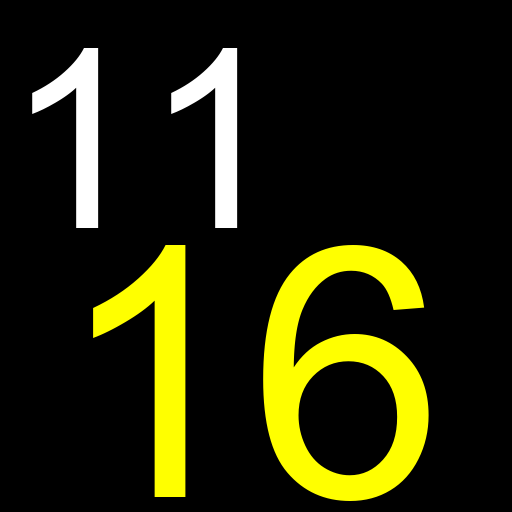
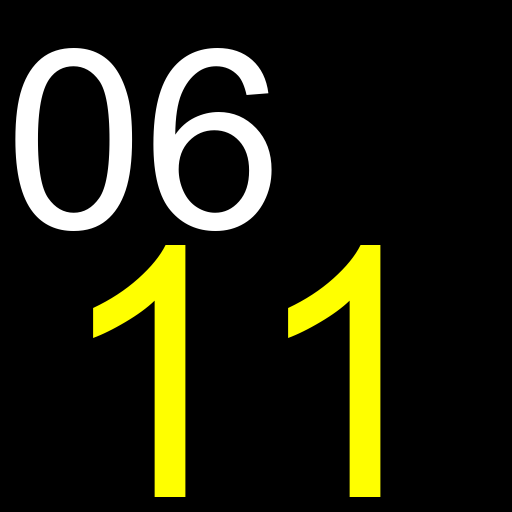
version: 0.14 ~ 2024-06-11 12:33:53:244280

Changed region(s): [[0.0312, 0.0938, 0.5312, 0.4688], [0.5, 0.4688, 0.8438, 1.0]]

diff --git a/datetray.py b/datetray.py
@@ -13,103 +13,102 @@ PID = os.getpid()
 print("PID:", PID)
 
 class Datetray(QApplication):
-	def __init__(self, *args, **kwargs):
-		super(Datetray, self).__init__([])
-		
-		self.setQuitOnLastWindowClosed(False)
-		self.now = datetime.now()
-		self.next_time = datetime(self.now.year, self.now.month, self.now.day + 1, 23, 59, 59, 0)
-		# self.next_time = datetime(self.now.year, self.now.month, self.now.day, 14, 7, 0, 0)
+    def __init__(self, *args, **kwargs):
+        super(Datetray, self).__init__([])
 
-		self.sleep = self.next_time - self.now
-		self.sleep = self.sleep.seconds
-		self.name = os.path.join(os.path.dirname(__file__), 'date.png')
-		self.draw_date()
-		self.icon = QIcon(self.name)
+        self.setQuitOnLastWindowClosed(False)
+        self.now = datetime.now()
+        self.next_time = datetime(self.now.year, self.now.month, self.now.day + 1, 23, 59, 59, 0)
+        # self.next_time = datetime(self.now.year, self.now.month, self.now.day, 14, 7, 0, 0)
 
-		self.tray = QSystemTrayIcon()
-		self.tray.setIcon(self.icon)
-		self.tray.setVisible(True) 
+        self.sleep = self.next_time - self.now
+        self.sleep = self.sleep.seconds
+        self.name = os.path.join(os.path.dirname(__file__), 'date.png')
+        self.draw_date()
+        self.icon = QIcon(self.name)
 
-		# Creating the options 
-		self.menu = QMenu() 
-		self.option1 = QAction("Update") 
-		self.option1.triggered.connect(self.updateIcon)
-		#option2 = QAction("GFG") 
-		self.menu.addAction(self.option1) 
-		#menu.addAction(option2) 
+        self.tray = QSystemTrayIcon()
+        self.tray.setIcon(self.icon)
+        self.tray.setVisible(True) 
 
-		# To quit the app 
-		self.quit_action = QAction("Quit") 
-		self.quit_action.triggered.connect(self.quit) 
-		self.menu.addAction(self.quit_action) 
+        # Creating the options 
+        self.menu = QMenu() 
+        self.option1 = QAction("Update") 
+        self.option1.triggered.connect(self.updateIcon)
+        #option2 = QAction("GFG") 
+        self.menu.addAction(self.option1) 
+        #menu.addAction(option2) 
 
-		# Adding options to the System Tray 
-		self.tray.setContextMenu(self.menu) 
-		self.timer = QTimer()
-		msg = "Next Update => Sleep: " + str(self.get_jedi()) + " seconds => Update at: " + str(datetime.strftime(self.next_time, '%Y/%m/%d %H:%M:%S'))
-		self.tray.setToolTip(msg)
-		self.tray.showMessage('DateTray', msg, QSystemTrayIcon.Information)
-		# self.tray.setToolTip("TEST setToolTip")
-		notify("DateTray", "DateTray", "start", msg, icon = self.name, direct_run = True)
-		self.timer.setInterval(self.get_jedi() * 1000)
-		self.timer.timeout.connect(self.updateIcon)
-		self.timer.start()
+        # To quit the app 
+        self.quit_action = QAction("Quit") 
+        self.quit_action.triggered.connect(self.quit) 
+        self.menu.addAction(self.quit_action) 
 
-	def get_jedi(self):
-		now = datetime.now()
-		next_time = datetime(now.year, now.month, now.day + 1, 23, 59, 59, 0)
-		return (next_time - datetime.now()).seconds
+        # Adding options to the System Tray 
+        self.tray.setContextMenu(self.menu) 
+        self.timer = QTimer()
+        msg = "Next Update => Sleep: " + str(self.get_jedi()) + " seconds => Update at: " + str(datetime.strftime(self.next_time, '%Y/%m/%d %H:%M:%S'))
+        self.tray.setToolTip(msg)
+        self.tray.showMessage('DateTray', msg, QSystemTrayIcon.Information)
+        # self.tray.setToolTip("TEST setToolTip")
+        notify.send("DateTray", "start", "DateTray", msg, ['start', 'update'], icon = self.name)
+        self.timer.setInterval(self.get_jedi() * 1000)
+        self.timer.timeout.connect(self.updateIcon)
+        self.timer.start()
 
-	def format_number(self, number, length = 10):
-	    number = str(number).strip()
-	    zeros = len(str(length)) - len(number)
-	    r = ("0" * zeros) + str(number)
-	    if len(r) == 1:
-	        return "0" + r
-	    return r
-	 
-	def draw_date(self):
-		img = Image.new('RGB', (512, 512), color = (0, 0, 0))
-		fontsize = 350
-		font = ImageFont.truetype("arial.ttf", fontsize) 
-		# while font.getsize(txt)[0] < img_fraction*image.size[0]:
-		#     # iterate until the text size is just larger than the criteria
-		#     fontsize += 1
-		#     font = ImageFont.truetype("arial.ttf", fontsize)
+    def get_jedi(self):
+        now = datetime.now()
+        next_time = datetime(now.year, now.month, now.day + 1, 23, 59, 59, 0)
+        return (next_time - datetime.now()).seconds
 
-		d = ImageDraw.Draw(img)
-		d.text((55,180), self.format_number(str(datetime.now().day)), fill=(255,255,0), font=font)
-		 
-		img.save(self.name)
+    def format_number(self, number, length = 10):
+        number = str(number).strip()
+        zeros = len(str(length)) - len(number)
+        r = ("0" * zeros) + str(number)
+        if len(r) == 1:
+            return "0" + r
+        return r
 
-		month = Image.open(self.name)
-		draw = ImageDraw.Draw(month)
-		fontsize1 = 250
-		font1 = ImageFont.truetype("arial.ttf", fontsize1) 
-		# font1.set_variation_by_name('Bold')
-		draw.text((5,1), self.format_number(str(datetime.now().month)), font=font1, fill='white')
-		# draw.text((5,1), self.format_number(str(datetime.now().minute)), font=font1, fill='white')
+    def draw_date(self):
+        img = Image.new('RGB', (512, 512), color = (0, 0, 0))
+        fontsize = 350
+        font = ImageFont.truetype("arial.ttf", fontsize) 
+        # while font.getsize(txt)[0] < img_fraction*image.size[0]:
+        #     # iterate until the text size is just larger than the criteria
+        #     fontsize += 1
+        #     font = ImageFont.truetype("arial.ttf", fontsize)
 
-		month.save(self.name)
+        d = ImageDraw.Draw(img)
+        d.text((55,180), self.format_number(str(datetime.now().day)), fill=(255,255,0), font=font)
+
+        img.save(self.name)
+
+        month = Image.open(self.name)
+        draw = ImageDraw.Draw(month)
+        fontsize1 = 250
+        font1 = ImageFont.truetype("arial.ttf", fontsize1) 
+        # font1.set_variation_by_name('Bold')
+        draw.text((5,1), self.format_number(str(datetime.now().month)), font=font1, fill='white')
+        # draw.text((5,1), self.format_number(str(datetime.now().minute)), font=font1, fill='white')
+
+        month.save(self.name)
 
 
-	def updateIcon(self):
-		self.tray.setVisible(False)
-		print("Update ...")
-		msg = "Update datetime to:", datetime.strftime(self.next_time, '%Y/%m/%d %H:%M:%S')
-		notify("DateTray", "DateTray", "update", msg, icon = self.name, direct_run = True)
-		msg1 = "Next Update => Sleep: " + str(self.get_jedi()) + " seconds => Update at: " + str(datetime.strftime(self.next_time, '%Y/%m/%d %H:%M:%S'))
-		self.tray.setToolTip(msg1)
-		self.tray.showMessage('DateTray', msg1, QSystemTrayIcon.Information)
-		print(msg1)
-		notify("DateTray", "DateTray", "update", msg1, icon = self.name, direct_run = True)
-		self.draw_date()
-		icon = QIcon(self.name)
-		self.tray.setIcon(icon) 
-		self.tray.setVisible(True) 
+    def updateIcon(self):
+        self.tray.setVisible(False)
+        print("Update ...")
+        msg = "Update datetime to: " + datetime.strftime(self.next_time, '%Y/%m/%d %H:%M:%S')
+        notify.send("DateTray", "update", "DateTray", msg, ['start', 'update'], icon = self.name)
+        msg1 = "Next Update => Sleep: " + str(self.get_jedi()) + " seconds => Update at: " + str(datetime.strftime(self.next_time, '%Y/%m/%d %H:%M:%S'))
+        self.tray.setToolTip(msg1)
+        self.tray.showMessage('DateTray', msg1, QSystemTrayIcon.Information)
+        print(msg1)
+        notify.send("DateTray", "update", "DateTray", msg1, ['start', 'update'], icon = self.name)
+        self.draw_date()
+        icon = QIcon(self.name)
+        self.tray.setIcon(icon) 
+        self.tray.setVisible(True) 
 
 if __name__ == '__main__':
-	c = Datetray()
-	c.exec_()
-		
+    c = Datetray()
+    c.exec_()

diff --git a/__version__.py b/__version__.py
@@ -1,1 +1,1 @@
-version = 0.13
+version = "0.14"
